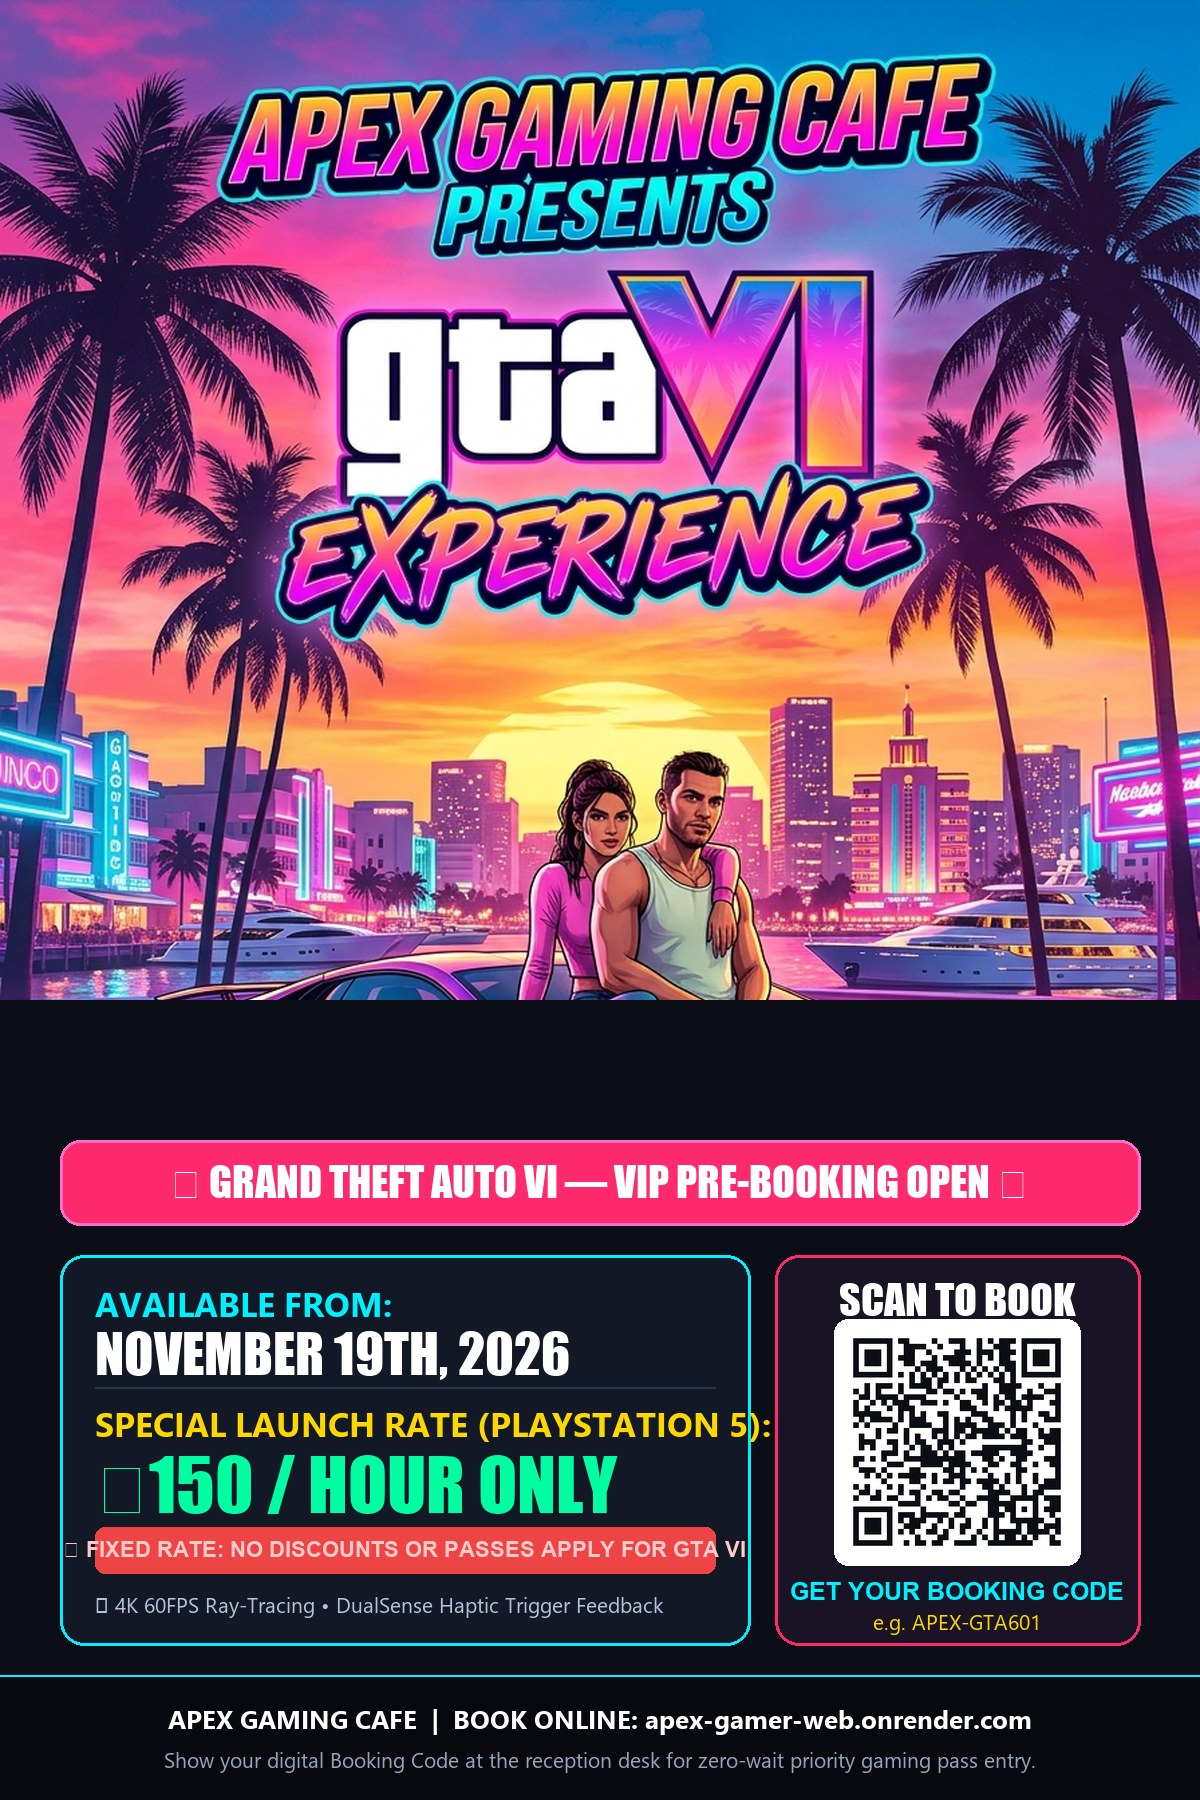
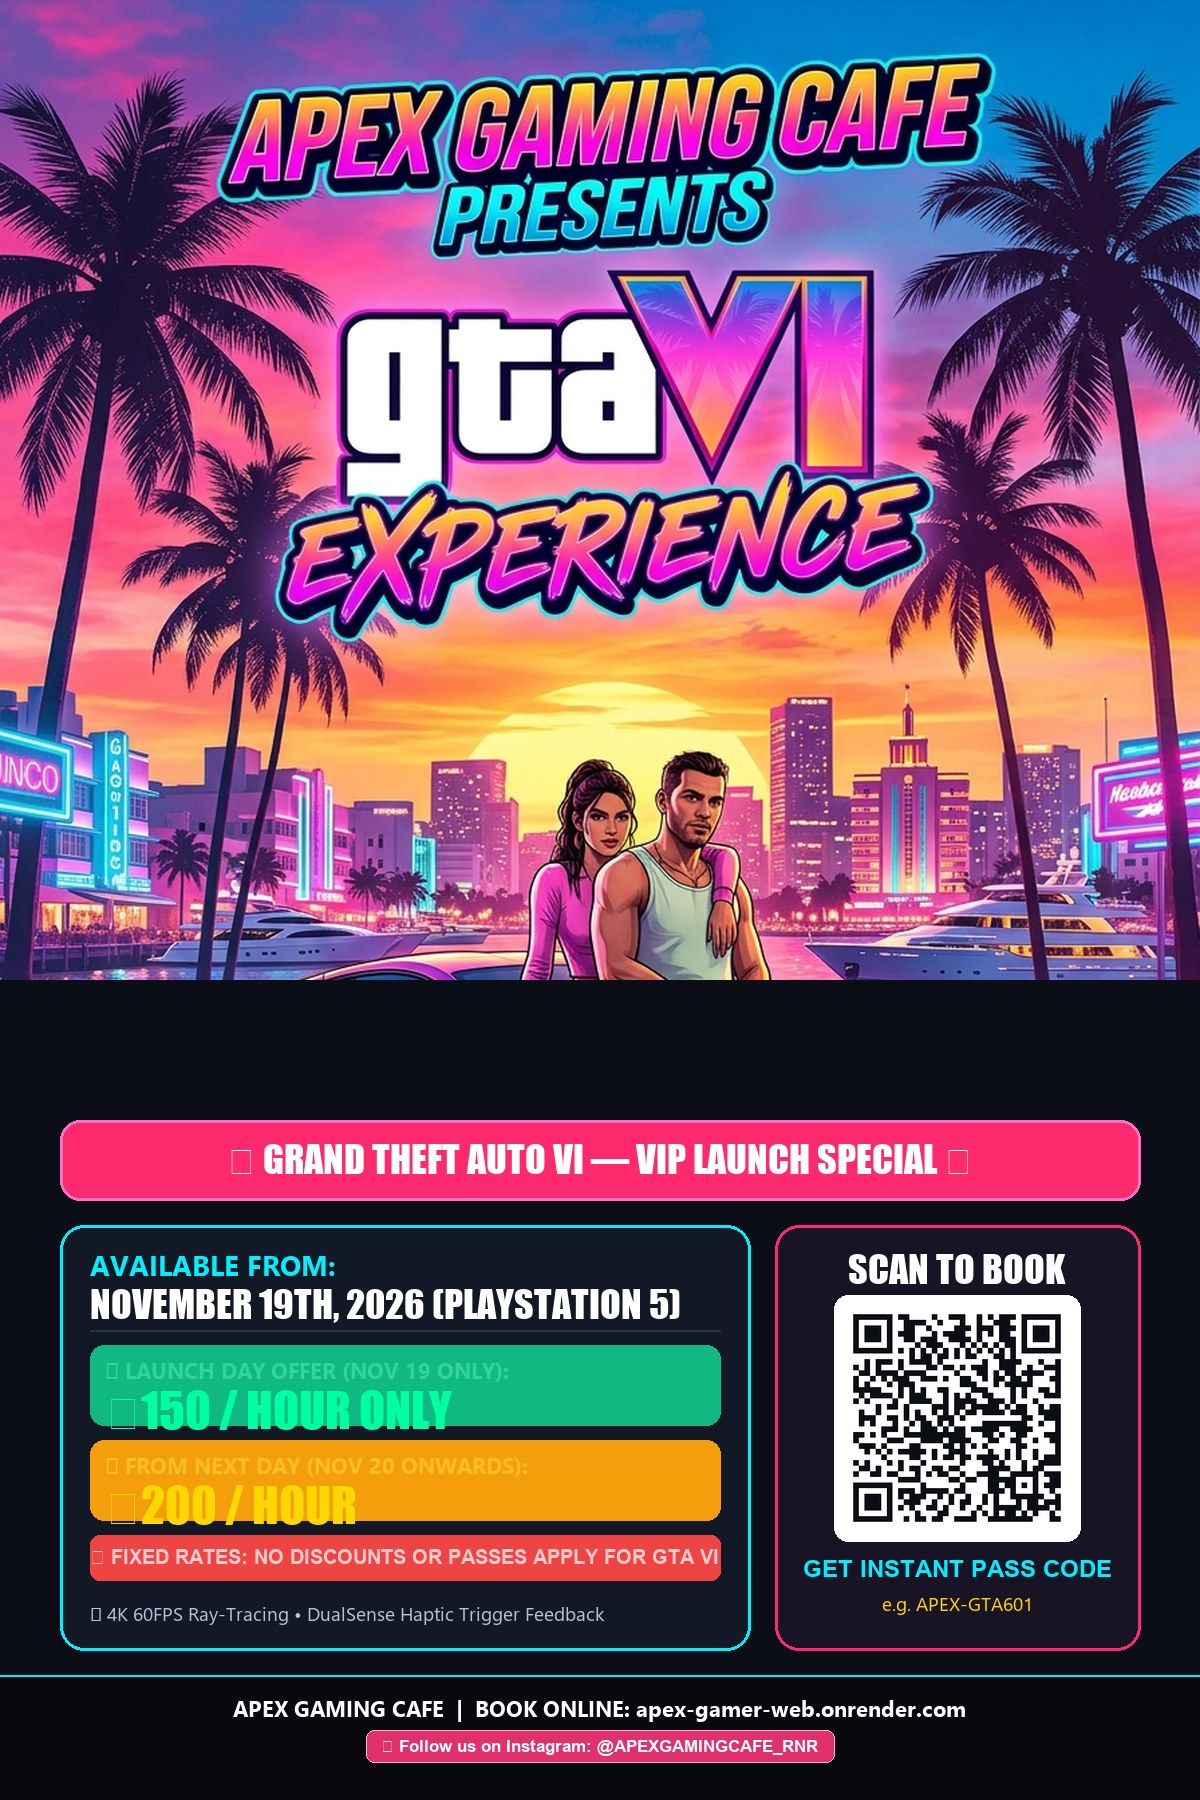
feat: Update GTA 6 pricing - Launch Day Nov 19 offer Rs 150/hr, from next day Nov 20 Rs 200/hr

Changed region(s): [[0.0308, 0.6222, 0.9558, 0.9956], [0.0, 0.5289, 1.0, 0.56]]

diff --git a/frontend/src/App.jsx b/frontend/src/App.jsx
@@ -99,8 +99,8 @@ export default function App() {
   };
 
   const stickyPricing = useMemo(() => {
-    return calculateStationPrice(selectedStation, duration, gamingPlans, isGta6BookingMode);
-  }, [selectedStation, duration, gamingPlans, isGta6BookingMode]);
+    return calculateStationPrice(selectedStation, duration, gamingPlans, isGta6BookingMode, selectedDate);
+  }, [selectedStation, duration, gamingPlans, isGta6BookingMode, selectedDate]);
 
   return (
     <div className="min-h-screen bg-black text-neutral-100 flex flex-col font-sans selection:bg-emerald-600 selection:text-white">
@@ -170,15 +170,19 @@ export default function App() {
                     Experience Vice City in 4K 60FPS ray-tracing with DualSense haptic triggers on our PlayStation 5 lounge setup.
                   </p>
 
-                  {/* Pricing & Strict No Discount Policy */}
-                  <div className="flex flex-col sm:flex-row items-center gap-2 sm:gap-4 mb-1">
-                    <div className="flex items-center gap-2">
-                      <span className="text-xs text-neutral-400 font-semibold">Launch Rate:</span>
-                      <span className="text-xl sm:text-2xl font-black text-emerald-400">₹150 / hr</span>
+                  {/* Pricing: Launch Day Offer vs Next Day Rate */}
+                  <div className="flex flex-wrap items-center gap-2 sm:gap-3 mb-2">
+                    <div className="flex items-center gap-1.5 px-3 py-1 rounded-xl bg-emerald-500/10 border border-emerald-500/30 text-emerald-300">
+                      <span className="text-[11px] font-bold text-neutral-400">Launch Day (Nov 19):</span>
+                      <span className="text-base sm:text-lg font-black text-emerald-400">₹150 / hr</span>
                     </div>
-                    <div className="px-3 py-1 rounded-xl bg-rose-950/60 border border-rose-500/50 text-[11px] font-bold text-rose-300 flex items-center gap-1.5">
+                    <div className="flex items-center gap-1.5 px-3 py-1 rounded-xl bg-amber-500/10 border border-amber-500/30 text-amber-300">
+                      <span className="text-[11px] font-bold text-neutral-400">From Next Day (Nov 20+):</span>
+                      <span className="text-base sm:text-lg font-black text-amber-400">₹200 / hr</span>
+                    </div>
+                    <div className="px-2.5 py-1 rounded-xl bg-rose-950/60 border border-rose-500/50 text-[11px] font-bold text-rose-300 flex items-center gap-1.5">
                       <span>⛔</span>
-                      <span>Fixed Rate — Strictly No Discounts or Passes Apply</span>
+                      <span>Fixed Rates • No Discounts Apply</span>
                     </div>
                   </div>
                 </div>

diff --git a/frontend/src/components/BookingModal.jsx b/frontend/src/components/BookingModal.jsx
@@ -27,8 +27,8 @@ export default function BookingModal({
   }, [isGta6Mode, date]);
 
   const pricing = useMemo(() => {
-    return calculateStationPrice(station, duration, gamingPlans, isGta6);
-  }, [station, duration, gamingPlans, isGta6]);
+    return calculateStationPrice(station, duration, gamingPlans, isGta6, date);
+  }, [station, duration, gamingPlans, isGta6, date]);
 
   if (!isOpen) return null;
 
@@ -44,7 +44,8 @@ export default function BookingModal({
     setError('');
 
     try {
-      const gtaPrefix = isGta6 ? '🎮 GTA VI Launch [No Discounts - Fixed Rate]' : '';
+      const isLaunchDay = date === '2026-11-19';
+      const gtaPrefix = isGta6 ? `🎮 GTA VI [${isLaunchDay ? 'Launch Day Offer ₹150/h' : 'Rate ₹200/h'} - Fixed Rate]` : '';
       const combinedNote = [gtaPrefix, notes].filter(Boolean).join(' | ');
       const counterNote = combinedNote ? `${combinedNote} [Pay at Counter]` : 'Pay at Counter';
       const res = await api.createBooking({
@@ -189,9 +190,9 @@ export default function BookingModal({
               {isGta6 ? (
                 <div className="flex items-center justify-between text-xs text-pink-300 bg-pink-950/40 border border-pink-500/30 px-3 py-2 rounded-lg">
                   <span className="font-bold flex items-center gap-1.5">
-                    🌴 GTA VI Special Launch:
+                    🌴 {pricing.isLaunchDay ? 'GTA VI Launch Day Offer:' : 'GTA VI Standard Rate:'}
                   </span>
-                  <span className="font-extrabold text-rose-300">Fixed Rate • No Discounts</span>
+                  <span className="font-extrabold text-emerald-300">₹{pricing.gtaRate || 200}/hr • Fixed Rate</span>
                 </div>
               ) : pricing.discount > 0 && (
                 <>
@@ -234,9 +235,11 @@ export default function BookingModal({
                   </div>
                   <div className="text-[11px] text-neutral-400 mt-0.5">
                     {isGta6 ? (
-                      <span className="text-rose-400 font-semibold">Fixed ₹150/hr • Strictly no discount offers or passes apply</span>
+                      <span className="text-amber-300 font-semibold">
+                        {date === '2026-11-19' ? 'Nov 19 Launch Offer: ₹150/hr' : 'From Nov 20: ₹200/hr'} • Strictly no discounts apply
+                      </span>
                     ) : (
-                      <span>Tick if you are booking for the GTA VI launch</span>
+                      <span>Tick if you are booking for Grand Theft Auto VI</span>
                     )}
                   </div>
                 </div>

diff --git a/frontend/src/components/Gta6PosterModal.jsx b/frontend/src/components/Gta6PosterModal.jsx
@@ -7,7 +7,8 @@ export default function Gta6PosterModal({ isOpen, onClose, onPreBook }) {
   const shareText = encodeURIComponent(
     "🌴 GRAND THEFT AUTO VI ARRIVES AT APEX GAMING CAFE!\n\n" +
     "🎮 Available from: November 19th\n" +
-    "⚡ Rate: Only ₹150/hr on PlayStation 5 (Fixed Rate • No discounts)\n" +
+    "🔥 Launch Day Offer (Nov 19): Only ₹150/hr!\n" +
+    "⚡ From Next Day (Nov 20+): ₹200/hr\n" +
     "🎟 Pre-book your slot online & get your instant pass code:\n" +
     "https://apex-gamer-web.onrender.com"
   );
@@ -75,9 +76,15 @@ export default function Gta6PosterModal({ isOpen, onClose, onPreBook }) {
                 <span className="font-bold text-white">PlayStation 5 (4K 60FPS)</span>
               </div>
 
-              <div className="flex items-center justify-between text-xs pt-2 border-t border-neutral-800">
-                <span className="text-neutral-300 font-bold">Launch Rate:</span>
-                <span className="text-xl font-black text-emerald-400">₹150 / hour</span>
+              <div className="pt-2 border-t border-neutral-800 space-y-1.5">
+                <div className="flex items-center justify-between text-xs">
+                  <span className="text-emerald-400 font-bold">Launch Day Special (Nov 19):</span>
+                  <span className="text-lg font-black text-emerald-400">₹150 / hour</span>
+                </div>
+                <div className="flex items-center justify-between text-xs">
+                  <span className="text-amber-400 font-bold">From Next Day (Nov 20 onwards):</span>
+                  <span className="text-lg font-black text-amber-400">₹200 / hour</span>
+                </div>
               </div>
             </div>
 
@@ -89,7 +96,7 @@ export default function Gta6PosterModal({ isOpen, onClose, onPreBook }) {
                   Fixed Rate Policy — No Discounts Applicable
                 </span>
                 <span className="text-rose-200/80 leading-relaxed block text-[11px]">
-                  Grand Theft Auto VI is an exclusive special launch event. <strong>No membership passes, multi-hour discount combos, or coupon codes</strong> are applicable. All sessions are billed at the fixed standard rate of ₹150/hr.
+                  Grand Theft Auto VI special event: <strong>Launch Day Offer on Nov 19 is ₹150/hr</strong>, and <strong>₹200/hr from Nov 20 onwards</strong>. Strictly no membership passes, multi-hour discount combos, or coupon codes are applicable.
                 </span>
               </div>
             </div>

diff --git a/frontend/src/components/RatesModal.jsx b/frontend/src/components/RatesModal.jsx
@@ -183,13 +183,14 @@ export default function RatesModal({ isOpen, onClose, gamingPlans = [], onSelect
                     <span className="text-xs text-neutral-400">PlayStation 5 4K 60FPS Lounge Setup</span>
                   </div>
                 </div>
-                <div className="text-right sm:self-auto self-start">
-                  <div className="text-base font-black text-emerald-400">₹150 / hr</div>
+                <div className="text-right sm:self-auto self-start space-y-0.5">
+                  <div className="text-xs sm:text-sm font-black text-emerald-400">Launch Day (Nov 19): ₹150 / hr</div>
+                  <div className="text-xs sm:text-sm font-black text-amber-400">From Next Day (Nov 20+): ₹200 / hr</div>
                   <div className="text-[10px] font-bold text-rose-400 uppercase tracking-wide">Fixed Rate • No Discounts</div>
                 </div>
               </div>
               <div className="text-[11px] text-neutral-300/80 bg-black/40 rounded-xl p-2.5 border border-neutral-800">
-                ⚡ <strong>Special Launch Event Policy:</strong> Multi-hour combo discounts and membership passes do <strong>not</strong> apply to GTA VI sessions. All GTA VI gaming time is billed at the fixed standard rate of ₹150/hr.
+                ⚡ <strong>Special Launch Policy:</strong> GTA VI is <strong>₹150/hr on Launch Day (Nov 19)</strong> and <strong>₹200/hr from Nov 20 onwards</strong>. Multi-hour combo discounts and membership passes do <strong>not</strong> apply.
               </div>
             </div>
 

diff --git a/frontend/src/services/api.js b/frontend/src/services/api.js
@@ -161,18 +161,23 @@ export const api = {
   }
 };
 
-export function calculateStationPrice(station, duration, gamingPlans = [], isGta6 = false) {
+export function calculateStationPrice(station, duration, gamingPlans = [], isGta6 = false, date = '') {
   if (!station) return { originalPrice: 0, finalPrice: 0, discount: 0, plan: null, isGta6: false };
   const standardTotal = Number(station.hourly_rate) * Number(duration);
 
-  // Strict Policy: No discounts or promotional passes applicable for GTA VI
+  // Strict Policy: GTA VI Launch Day (Nov 19) is Rs 150/hr; From next day onwards is Rs 200/hr. No discounts.
   if (isGta6) {
+    const isLaunchDay = date === '2026-11-19';
+    const hourlyRate = isLaunchDay ? 150 : 200;
+    const gtaTotal = hourlyRate * Number(duration);
     return {
-      originalPrice: standardTotal,
-      finalPrice: standardTotal,
+      originalPrice: gtaTotal,
+      finalPrice: gtaTotal,
       discount: 0,
       plan: null,
-      isGta6: true
+      isGta6: true,
+      gtaRate: hourlyRate,
+      isLaunchDay,
     };
   }
 

diff --git a/backend/app/routers/bookings.py b/backend/app/routers/bookings.py
@@ -103,9 +103,15 @@ def create_booking(booking_in: BookingCreate, db: Session = Depends(get_db), cur
     standard_total = round(booking_in.duration_hours * float(setup.HourlyRate), 2)
     total_amount = standard_total
 
-    # Strict: NO DISCOUNT FOR GTA 6 (Fixed standard rate of Rs 150/hr on PS5)
+    # Strict GTA 6 Pricing Policy:
+    # Launch day (2026-11-19): Rs 150/hr offer
+    # From next day onwards (>= 2026-11-20): Rs 200/hr
+    # Strictly NO discounts or promo passes apply to GTA 6.
     is_gta6 = "GTA" in (booking_in.notes or "").upper()
-    if not is_gta6:
+    if is_gta6:
+        gta_rate = 150.0 if booking_in.date == "2026-11-19" else 200.0
+        total_amount = round(booking_in.duration_hours * gta_rate, 2)
+    else:
         try:
             applicable_plans = db.query(GamingPlan).filter(
                 GamingPlan.IsActive == True,
